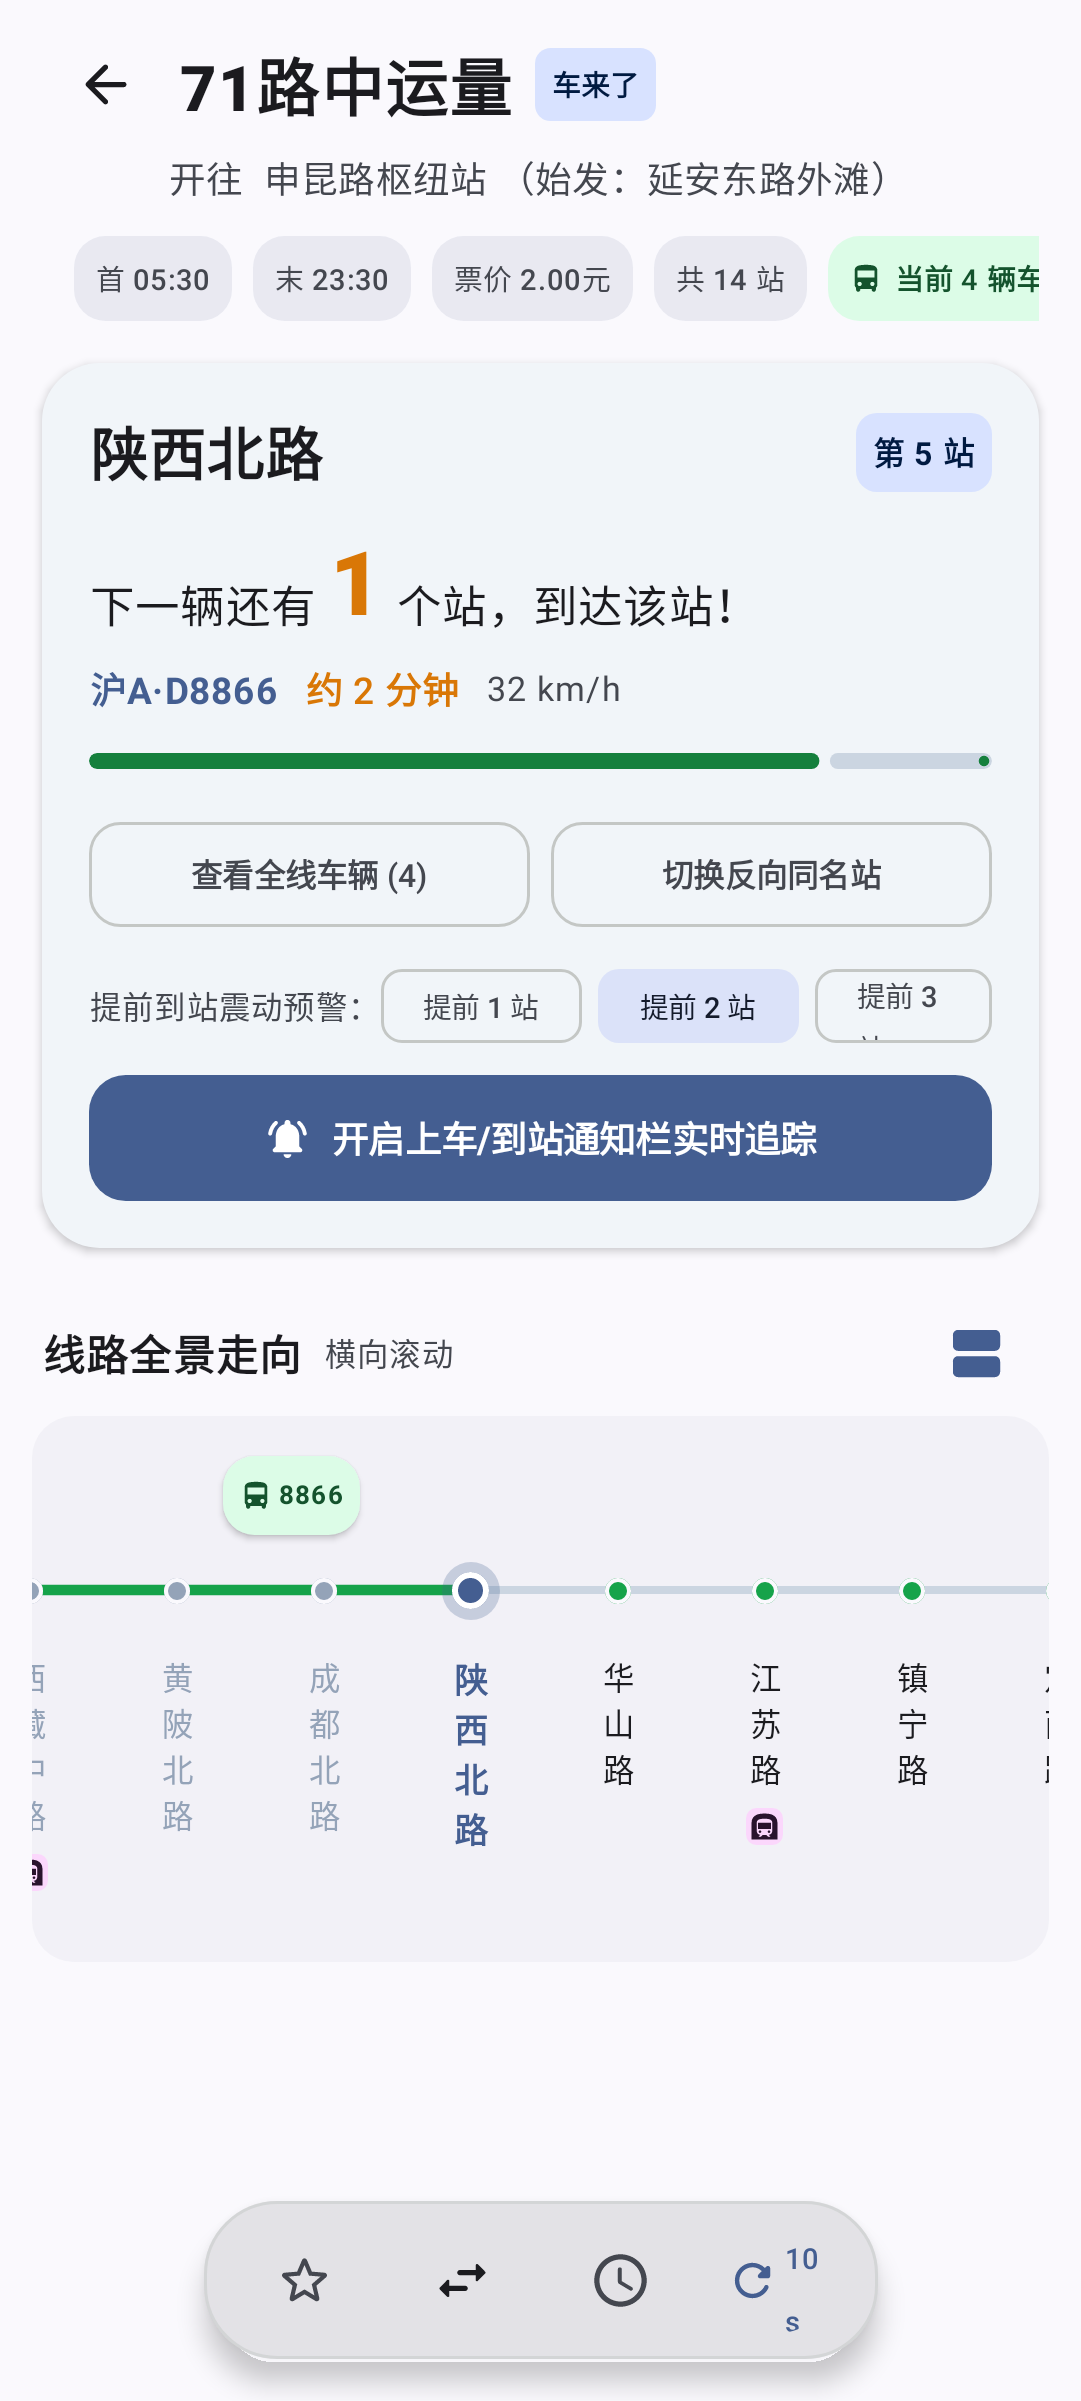
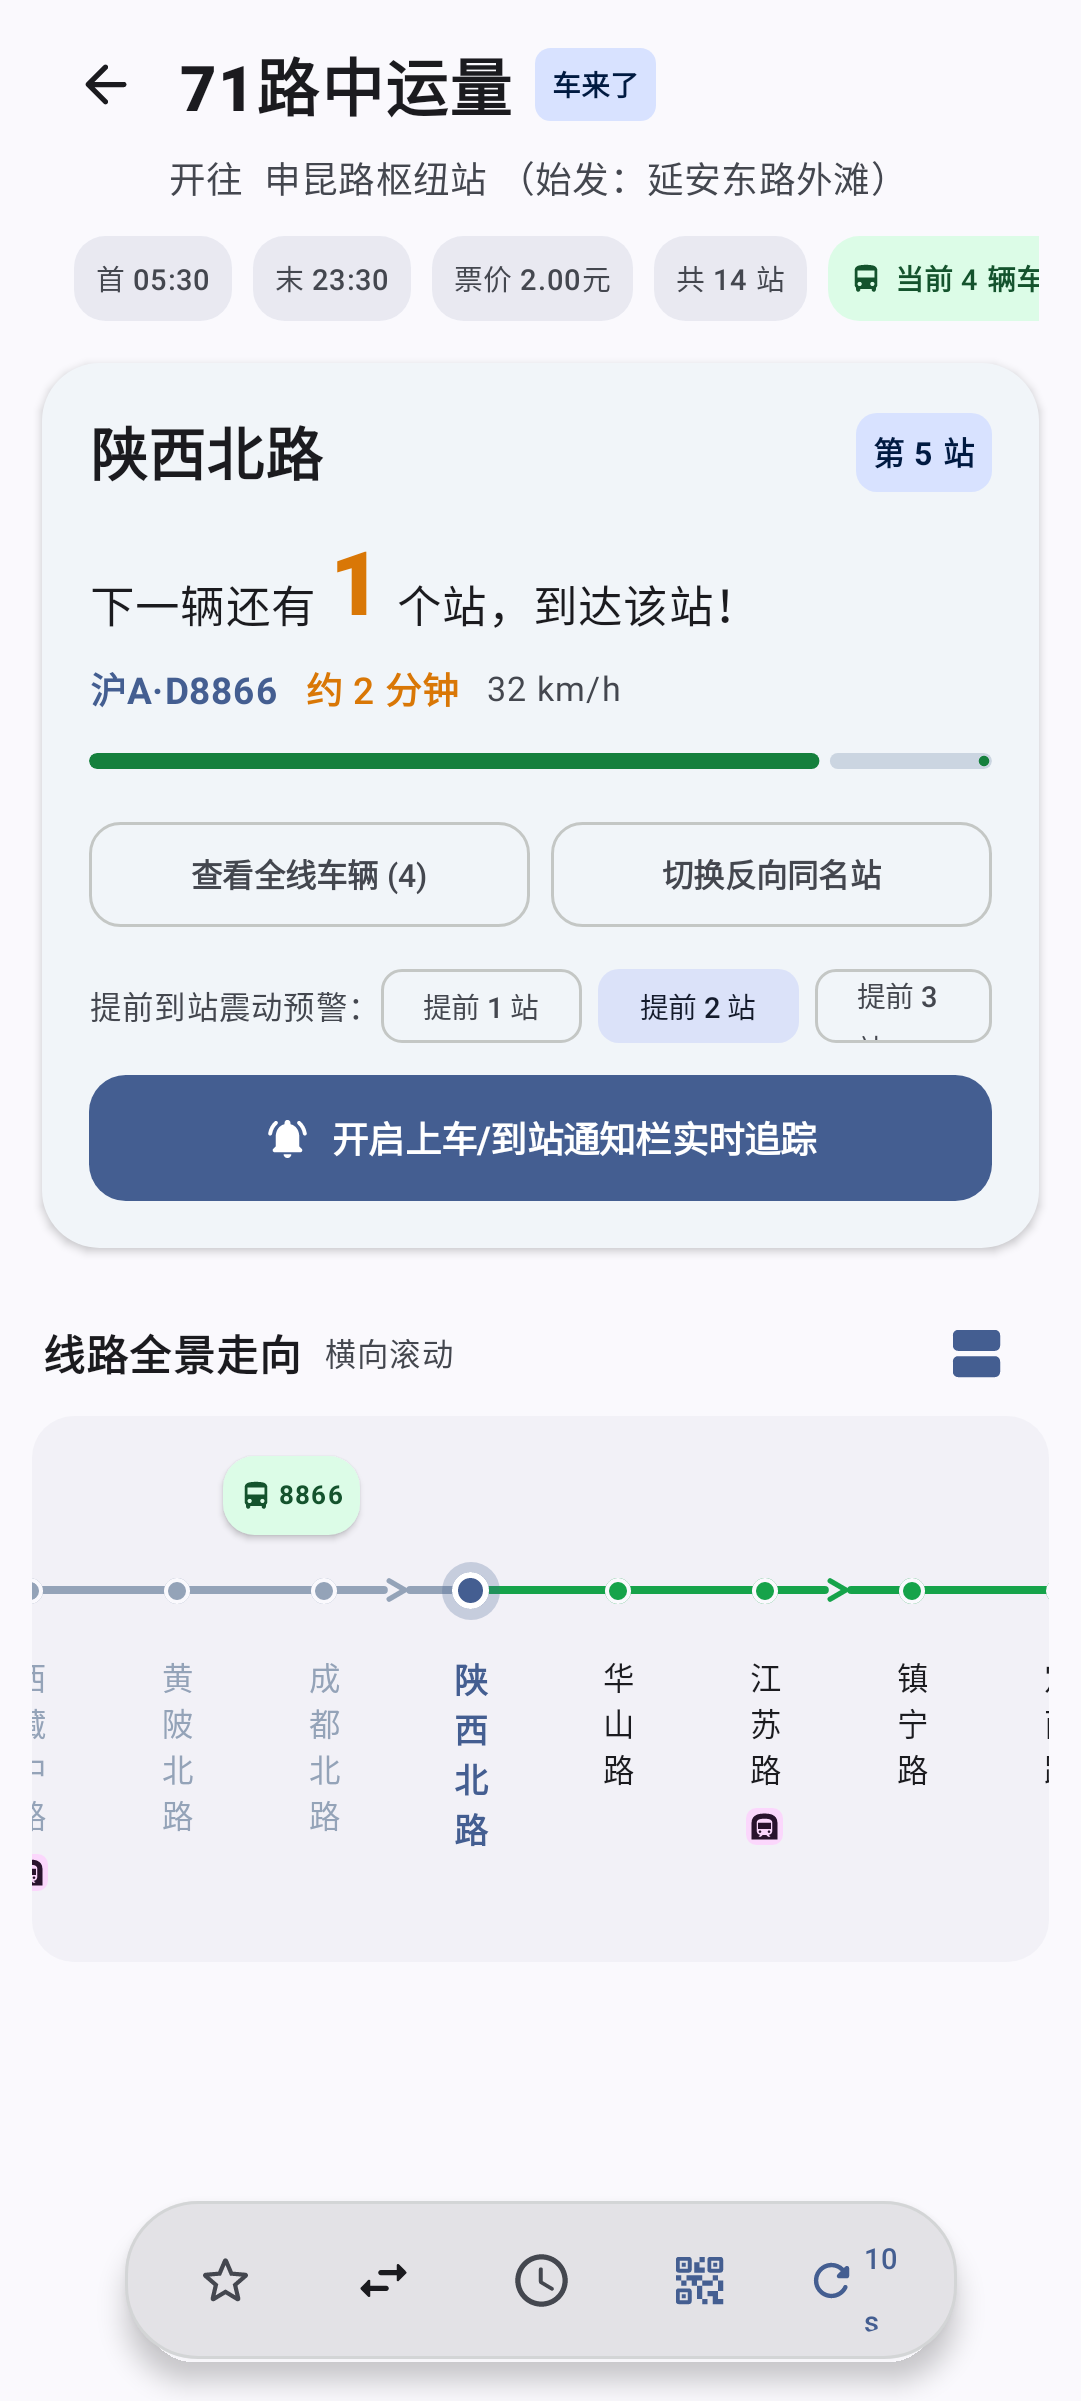
fix: 统一公交走向条横纵向绿灰配色并在轨道上增加行车方向折线箭头
- 修复横向模式下起点至候车站误绘制为活跃绿的反转 Bug，与纵向模式及站点节点统一为'已过站静音灰'
- 候车站及后续乘车区间统一为'活跃翡翠绿'
- 在横向与纵向站间轨道增加行车前进折线箭头（横向 '>'，纵向 'v'），设置为每 3 站一个，保持视觉清爽
- 增加站间颜色与状态单元测试，更新效果截图

diff --git a/app/src/main/java/com/trackr/ui/components/ExpressiveRouteRail.kt b/app/src/main/java/com/trackr/ui/components/ExpressiveRouteRail.kt
@@ -54,7 +54,10 @@ import androidx.compose.ui.draw.clip
 import androidx.compose.ui.graphics.graphicsLayer
 import androidx.compose.ui.geometry.Offset
 import androidx.compose.ui.graphics.Color
+import androidx.compose.ui.graphics.Path
 import androidx.compose.ui.graphics.StrokeCap
+import androidx.compose.ui.graphics.StrokeJoin
+import androidx.compose.ui.graphics.drawscope.Stroke
 import androidx.compose.ui.platform.LocalDensity
 import androidx.compose.ui.text.font.FontWeight
 import androidx.compose.ui.text.style.TextAlign
@@ -233,9 +236,8 @@ private fun HorizontalRouteRail(
                     .fillMaxWidth()
                     .height(trackNodeHeight)
             ) {
-                // 绘制连续贯穿轨道线
-                val trackInactiveColor = MaterialTheme.busColors.routeTrackInactive
-                val trackActiveColor = MaterialTheme.busColors.routeTrackActive
+                // 绘制连续贯穿轨道线与方向箭头
+                val busColors = MaterialTheme.busColors
 
                 Canvas(
                     modifier = Modifier
@@ -243,29 +245,71 @@ private fun HorizontalRouteRail(
                         .height(trackNodeHeight)
                 ) {
                     val halfHeight = size.height / 2f
-                    val startX = (columnWidthPx / 2f)
-                    val endX = size.width - (columnWidthPx / 2f)
+                    val arrowGap = 5.dp.toPx()
+                    val arrowArm = 3.dp.toPx()
+                    val arrowSpread = 3.5.dp.toPx()
+                    val strokeWidthPx = 3.dp.toPx()
+                    val arrowStrokeWidthPx = 2.dp.toPx()
 
-                    // 先绘制底色轨道
-                    drawLine(
-                        color = trackInactiveColor,
-                        start = Offset(startX, halfHeight),
-                        end = Offset(endX, halfHeight),
-                        strokeWidth = 3.dp.toPx(),
-                        cap = StrokeCap.Round
-                    )
-
-                    // 绘制当前选中候车站之前的活跃路段（渐进翡翠绿）
-                    val activeEndIndex = (currentSelectedOrder - 1).coerceIn(0, stops.size - 1)
-                    val activeEndX = (columnWidthPx / 2f) + activeEndIndex * columnWidthPx
-                    if (activeEndX > startX) {
-                        drawLine(
-                            color = trackActiveColor,
-                            start = Offset(startX, halfHeight),
-                            end = Offset(activeEndX, halfHeight),
-                            strokeWidth = 4.dp.toPx(),
-                            cap = StrokeCap.Round
+                    for (i in 0 until stops.size - 1) {
+                        val stopFrom = stops[i]
+                        val stopTo = stops[i + 1]
+                        val segStartX = (columnWidthPx / 2f) + i * columnWidthPx
+                        val segEndX = (columnWidthPx / 2f) + (i + 1) * columnWidthPx
+                        val midX = (segStartX + segEndX) / 2f
+                        val segmentColor = getRouteSegmentColor(
+                            fromOrder = stopFrom.order,
+                            toOrder = stopTo.order,
+                            currentSelectedOrder = currentSelectedOrder,
+                            busColors = busColors
                         )
+
+                        val hasArrow = (i % 3 == 0)
+
+                        if (hasArrow) {
+                            // 轨道前半段（站点到箭头间隙）
+                            drawLine(
+                                color = segmentColor,
+                                start = Offset(segStartX, halfHeight),
+                                end = Offset(midX - arrowGap, halfHeight),
+                                strokeWidth = strokeWidthPx,
+                                cap = StrokeCap.Round
+                            )
+
+                            // 绘制向右行车折线箭头 '>'
+                            val arrowPath = Path().apply {
+                                moveTo(midX - arrowArm, halfHeight - arrowSpread)
+                                lineTo(midX + arrowArm, halfHeight)
+                                lineTo(midX - arrowArm, halfHeight + arrowSpread)
+                            }
+                            drawPath(
+                                path = arrowPath,
+                                color = segmentColor,
+                                style = Stroke(
+                                    width = arrowStrokeWidthPx,
+                                    cap = StrokeCap.Round,
+                                    join = StrokeJoin.Round
+                                )
+                            )
+
+                            // 轨道后半段（箭头间隙到下一站）
+                            drawLine(
+                                color = segmentColor,
+                                start = Offset(midX + arrowGap, halfHeight),
+                                end = Offset(segEndX, halfHeight),
+                                strokeWidth = strokeWidthPx,
+                                cap = StrokeCap.Round
+                            )
+                        } else {
+                            // 无箭头时，平整绘制贯穿站间的轨道线
+                            drawLine(
+                                color = segmentColor,
+                                start = Offset(segStartX, halfHeight),
+                                end = Offset(segEndX, halfHeight),
+                                strokeWidth = strokeWidthPx,
+                                cap = StrokeCap.Round
+                            )
+                        }
                     }
                 }
 
@@ -588,6 +632,7 @@ private fun VerticalRouteRail(
                 isPassed = isPassed,
                 isFirst = isFirst,
                 isLast = isLast,
+                hasBottomArrow = (index % 3 == 0),
                 topTrackColor = topTrackColor,
                 bottomTrackColor = bottomTrackColor,
                 stationBuses = stationBuses,
@@ -603,7 +648,7 @@ private fun VerticalRouteRail(
  * 计算两个连续站点之间的轨道颜色：
  * 保证整段轨道在相邻 Station 之间颜色统一，不会在中间出现截断或突变
  */
-private fun getRouteSegmentColor(
+internal fun getRouteSegmentColor(
     fromOrder: Int,
     toOrder: Int,
     currentSelectedOrder: Int,
@@ -613,8 +658,8 @@ private fun getRouteSegmentColor(
     if (currentSelectedOrder <= 1) {
         return busColors.routeTrackActive
     }
-    // 已彻底开过的区间（到站序号早于当前候车站）渲染为已过站灰色，到达候车站及后续为活跃绿
-    return if (toOrder < currentSelectedOrder) {
+    // 候车站之前的区间（发车站到候车站之间的路段）渲染为已过站灰色，候车站出发及后续乘车区间为活跃绿
+    return if (fromOrder < currentSelectedOrder) {
         busColors.busPassedGray
     } else {
         busColors.routeTrackActive
@@ -631,6 +676,7 @@ private fun VerticalTimelineRow(
     isPassed: Boolean,
     isFirst: Boolean,
     isLast: Boolean,
+    hasBottomArrow: Boolean,
     topTrackColor: Color,
     bottomTrackColor: Color,
     stationBuses: List<LiveBus>,
@@ -670,22 +716,64 @@ private fun VerticalTimelineRow(
                 val centerX = size.width / 2f
                 val centerY = size.height / 2f
                 val overlap = 1f // 1px 防微细浮点裂隙
+                val strokeWidthPx = 3.dp.toPx()
+                val arrowStrokeWidthPx = 2.dp.toPx()
 
                 if (!isFirst) {
                     drawLine(
                         color = topTrackColor,
                         start = Offset(centerX, -overlap),
                         end = Offset(centerX, centerY),
-                        strokeWidth = 3.dp.toPx()
+                        strokeWidth = strokeWidthPx
                     )
                 }
                 if (!isLast) {
-                    drawLine(
-                        color = bottomTrackColor,
-                        start = Offset(centerX, centerY),
-                        end = Offset(centerX, size.height + overlap),
-                        strokeWidth = 3.dp.toPx()
-                    )
+                    if (hasBottomArrow) {
+                        val midY = (centerY + size.height) / 2f
+                        val arrowGap = 4.dp.toPx()
+                        val arrowArm = 3.dp.toPx()
+                        val arrowSpread = 3.5.dp.toPx()
+
+                        // 下行轨道前半段（站点到箭头间隙）
+                        drawLine(
+                            color = bottomTrackColor,
+                            start = Offset(centerX, centerY),
+                            end = Offset(centerX, midY - arrowGap),
+                            strokeWidth = strokeWidthPx
+                        )
+
+                        // 绘制向下行车折线箭头 'v'
+                        val arrowPath = Path().apply {
+                            moveTo(centerX - arrowSpread, midY - arrowArm)
+                            lineTo(centerX, midY + arrowArm)
+                            lineTo(centerX + arrowSpread, midY - arrowArm)
+                        }
+                        drawPath(
+                            path = arrowPath,
+                            color = bottomTrackColor,
+                            style = Stroke(
+                                width = arrowStrokeWidthPx,
+                                cap = StrokeCap.Round,
+                                join = StrokeJoin.Round
+                            )
+                        )
+
+                        // 下行轨道后半段（箭头间隙到行底边界）
+                        drawLine(
+                            color = bottomTrackColor,
+                            start = Offset(centerX, midY + arrowGap),
+                            end = Offset(centerX, size.height + overlap),
+                            strokeWidth = strokeWidthPx
+                        )
+                    } else {
+                        // 无箭头时，平整绘制贯穿整段的下行轴线
+                        drawLine(
+                            color = bottomTrackColor,
+                            start = Offset(centerX, centerY),
+                            end = Offset(centerX, size.height + overlap),
+                            strokeWidth = strokeWidthPx
+                        )
+                    }
                 }
             }
 

diff --git a/app/src/test/java/com/trackr/ui/components/ExpressiveRouteRailUiTest.kt b/app/src/test/java/com/trackr/ui/components/ExpressiveRouteRailUiTest.kt
@@ -88,4 +88,41 @@ class ExpressiveRouteRailUiTest {
         composeTestRule.onNodeWithText("人民广场").performClick()
         assertEquals("人民广场", clickedStop?.name)
     }
+
+    @Test
+    fun testGetRouteSegmentColor_consistentLogic() {
+        val lightColors = com.trackr.ui.theme.LightBusSemanticColors
+
+        // 1. 首站或全景模式 (currentSelectedOrder <= 1)：所有路段均为活跃绿
+        assertEquals(
+            lightColors.routeTrackActive,
+            getRouteSegmentColor(fromOrder = 1, toOrder = 2, currentSelectedOrder = 1, busColors = lightColors)
+        )
+        assertEquals(
+            lightColors.routeTrackActive,
+            getRouteSegmentColor(fromOrder = 2, toOrder = 3, currentSelectedOrder = 1, busColors = lightColors)
+        )
+
+        // 2. 候车中模式 (currentSelectedOrder = 3)：候车站之前的各路段为已过站灰，候车站及之后路段为活跃绿
+        // 路段 1->2 (已过站)
+        assertEquals(
+            lightColors.busPassedGray,
+            getRouteSegmentColor(fromOrder = 1, toOrder = 2, currentSelectedOrder = 3, busColors = lightColors)
+        )
+        // 路段 2->3 (到达候车站之前的进站路段，亦属于用户无法乘坐的历史区间 -> 灰)
+        assertEquals(
+            lightColors.busPassedGray,
+            getRouteSegmentColor(fromOrder = 2, toOrder = 3, currentSelectedOrder = 3, busColors = lightColors)
+        )
+        // 路段 3->4 (候车站出发路段，属于乘车可达区间 -> 绿)
+        assertEquals(
+            lightColors.routeTrackActive,
+            getRouteSegmentColor(fromOrder = 3, toOrder = 4, currentSelectedOrder = 3, busColors = lightColors)
+        )
+        // 路段 4->5 (后续乘车区间 -> 绿)
+        assertEquals(
+            lightColors.routeTrackActive,
+            getRouteSegmentColor(fromOrder = 4, toOrder = 5, currentSelectedOrder = 3, busColors = lightColors)
+        )
+    }
 }
